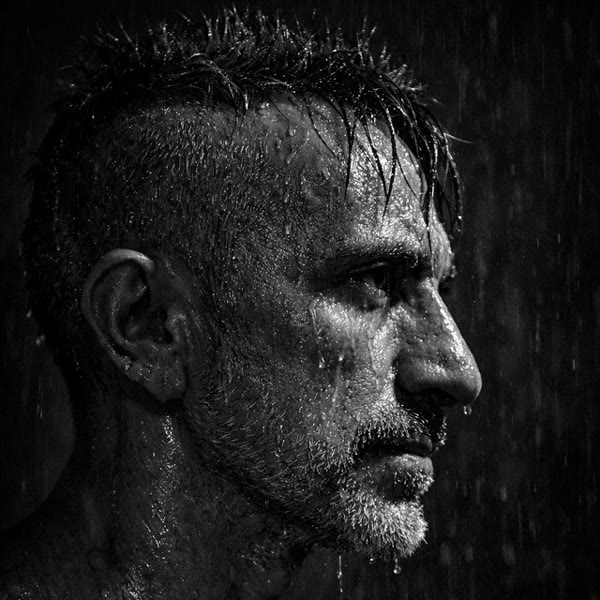
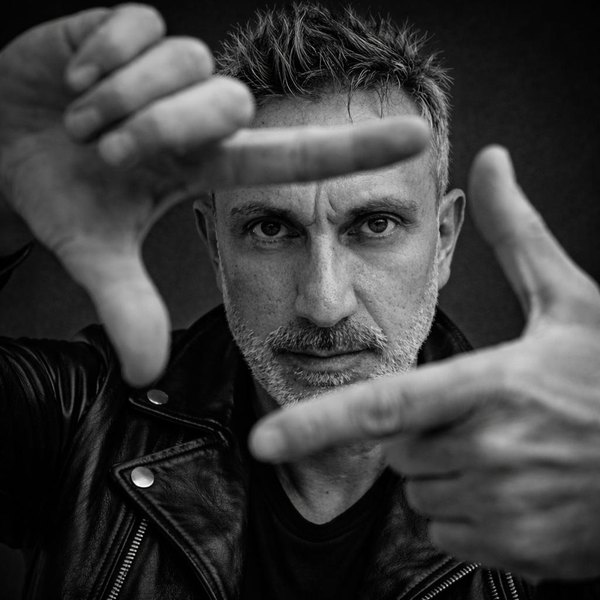
BABY SHARP page: Ara Arush new photo and bio; whale and marlin key frames

diff --git a/public/baby-sharp/index.html b/public/baby-sharp/index.html
@@ -335,6 +335,10 @@
       <figure><img src="assets/art/k-chase.jpg" alt="" loading="lazy"><figcaption>Погоня: Мама Шарк в затонувшем судне</figcaption></figure>
       <figure><img src="assets/art/k-stuck.jpg" alt="" loading="lazy"><figcaption>Застрял: иллюминатор затонувшего судна</figcaption></figure>
     </div>
+    <div class="grid c2" style="margin-top:14px">
+      <figure><img src="assets/art/k-whale.jpg" alt="" loading="lazy"><figcaption>Кит и рыболовное судно</figcaption></figure>
+      <figure><img src="assets/art/k-marlin.jpg" alt="" loading="lazy"><figcaption>Марлин</figcaption></figure>
+    </div>
     <div class="grid c3" style="margin-top:14px">
       <figure><img src="assets/art/k-reef.jpg" alt="" loading="lazy"><figcaption>Риф</figcaption></figure>
       <figure><img src="assets/art/k-hole.jpg" alt="" loading="lazy"><figcaption>У норы Креветки</figcaption></figure>
@@ -431,7 +435,7 @@
     <h2>Кто делает BABY SHARP</h2>
     <p class="lead">Автор и режиссёр — <b>Ара Аруш</b>. Производство — <b>Neyra Vision Studio</b>. Продвижение и соцсети — <b>Агентство «Боратиони»</b>. Эта страница — <b>Colibri Studio</b>.</p>
     <div class="team">
-      <div class="tm"><img src="assets/team/ara-arush.jpg" alt="Ара Аруш"><div class="n">Ара Аруш</div><div class="r">Автор, сценарист и режиссёр</div><p>В кино с 1999 года, основатель Digidez Studio и KenigArts Pictures. Короткий метр «Охотник» — Short Film Corner 66-го Каннского кинофестиваля; приз за лучший сценарий, финал топ-13 Manhattan International Film Festival.</p></div>
+      <div class="tm"><img src="assets/team/ara-arush.jpg" alt="Ара Аруш"><div class="n">Ара Аруш</div><div class="r">Автор, сценарист и режиссёр</div><p>В киноиндустрии с 1999 года. Основатель Digidez Studio и KenigArts Pictures. Короткометражный фильм «Охотник» был представлен на Short Film Corner 66-го Каннского кинофестиваля, получил приз за лучший сценарий и стал финалистом Manhattan International Film Festival. Армен Грейг был удостоен награды за лучшую мужскую роль первого плана на Badalona Film Festival. Фильм также занял второе место на кинофестивале в Филадельфии и был отмечен на ряде других международных фестивалей. Сооснователь Neyra Studio / Neyra Vision.</p></div>
       <div class="tm"><img src="assets/team/roman-nebo.jpg" alt="Роман Небо"><div class="n">Роман Небо</div><div class="r">Соавтор идеи · основатель Neyra Labs</div><p>Основатель Neyra Labs (Сингапур) — технологическая платформа NEYRA; генеральный директор Neyra Vision Studio (Джакарта). Креативный продюсер «Nusantara: The Story of Gajah Mada» — Best Documentary и Спецприз жюри AI Film Awards Cannes 2025. В BABY SHARP — соавтор идеи вместе с Ара Аруш.</p></div>
       <div class="tm"><img src="assets/team/lasha-borationi.jpg" alt="Лаша Боратиони"><div class="n">Лаша Боратиони</div><div class="r">Продвижение · VK, YouTube, Instagram</div><p>Руководитель агентства «Боратиони», автор и ведущий двух медиапроектов — более 700 интервью и видеоматериалов. Команда агентства — продвижение, ведение соцсетей, разработка цифровых сервисов.</p></div>
       <div class="tm"><img src="assets/team/aleksandr-andreyanov.jpg" alt="Александр Андреянов"><div class="n">Александр Андреянов</div><div class="r">Neyra Vision Studio</div><p>Основатель Neyra Vision Studio. «Nusantara: The Story of Gajah Mada» — Best Documentary и Спецприз жюри AI Film Awards Cannes 2025.</p></div>
